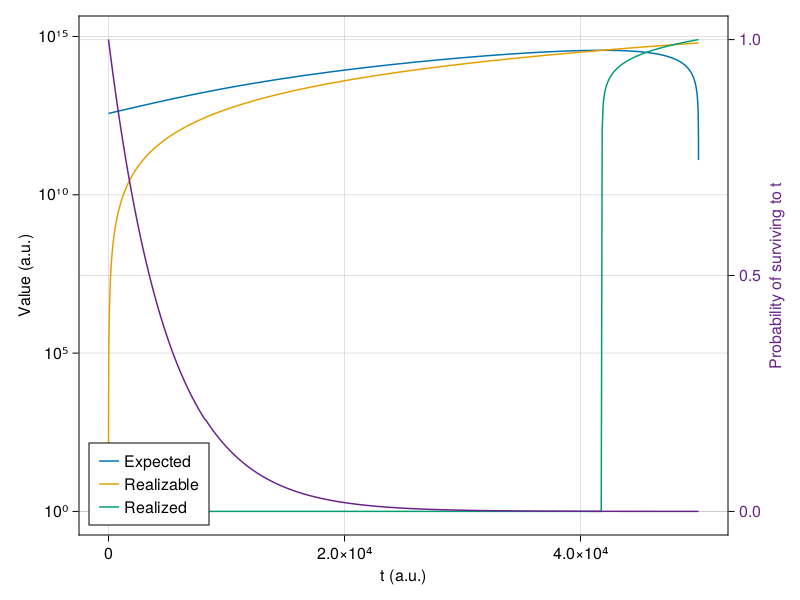
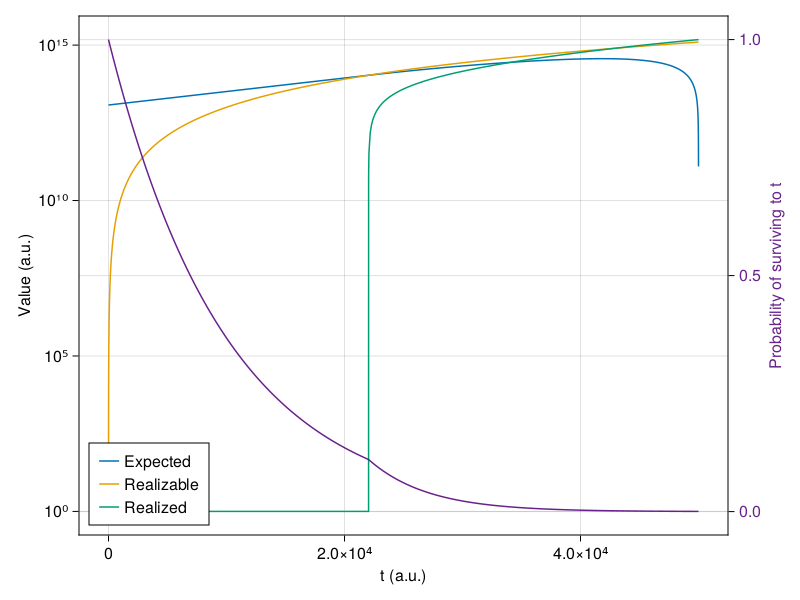
Fix repugnant bug

diff --git a/content/repugnant.md b/content/repugnant.md
@@ -47,7 +47,7 @@ Here's an example (code at the bottom):
 
 {{ resize_image(path="repugnant/ruin.png", width=1000, height=450, op="fit_width", alt="A plot of expected, realizable, and realized value over time in the scenario described above.") }}
 
-The initial expected value is in fact astronomical, but we've maximized it at the cost of back-loading the actual realization of value. By the time it makes sense to enter the "realization" stage, we're almost certainly already extinct.
+The initial expected value is in fact astronomical, but we've maximized it at the cost of back-loading the actual realization of value. By the time it makes sense to enter the "realization" stage, we're very likely already extinct.{% aside() %} The original version of this plot and code had a bug that made it wait too long, making my point look stronger than it was. {% end %}
 
 ```julia
 using CairoMakie
@@ -70,7 +70,7 @@ end
 function make_plot()
     s = 0.1 # Expansion speed
     r_0 = 2e-4 # Baseline risk
-    dr = 1e-6 # Change in risk when "securing"
+    dr = 1e-4 # Change in risk when "securing"
 
     sol = bellman_solve(s, r_0, dr)
 
@@ -90,24 +90,26 @@ function make_plot()
     hidexdecorations!(ax2)
 
     t_forward = maximum(sol.t) .- sol.t
-
-    realizing = (0.1*(t_forward)).^3 .> (r_0 - dr) * sol.u
+    realizing = ((s*t_forward).^3 .> dr * sol.u)
     t_r =t_forward[findlast(realizing)]
+    securing = (!).(realizing)
 
-    dr_p = dr * (!).(realizing)
+    p_alive = exp.(-(r_0 .- dr) .* t_forward) .* securing .+ 
+        exp(-(r_0 - dr) * t_r) *
+            exp.(-r_0 * (t_forward .- t_r)) .* realizing
 
-    realized = max.(0, 1/4 * s^3 * ((sol.t).^4 .- t_r^4))
+    realized = max.(0, 1/4 * s^3 * ((t_forward).^4 .- t_r^4))
 
     lines!(ax1, maximum(sol.t) .- sol.t, sol.u,
         label = "Expected")
-    lines!(ax1, sol.t, 1 .+ (0.1*sol.t).^3 / 2e-4
-         label = "Realizable")
-    lines!(ax1, sol.t, 1 .+ realized,
+    lines!(ax1, sol.t, 1 .+ (s*sol.t).^3 / dr,
+        label = "Realizable")
+    lines!(ax1, t_forward, 1 .+ realized,
         label = "Realized")
-    lines!(ax2, sol.t, exp.(-((r_0 .- dr_p) .* sol.t)),
+    lines!(ax2, t_forward, p_alive,
         color = :darkorchid4)
     axislegend(ax1, position = :lb)
-    save("ruin.png", f)
+    save("p.png", f)
 end
 ```
 

diff --git a/content/crimes.md b/content/crimes.md
@@ -109,7 +109,7 @@ To do this, we had best understand where the approximation comes from.{% note() 
 \left\lvert\frac{\alpha_\text{out}}{\alpha_\text{in}}\right\rvert^2 &\approx \frac{r^2 + a^2 - 2ra\cos φ}{1 + (ra)^2 - 2ra\cos φ}
 \end{align}
 {% end %}
-We've already made a couple assumptions: that {% katex() %} k^2 = 1 - r^2 {% end %} (there's no loss in the coupler), and that {% katex() %} (a-1)(1-r^2) \ll a .{% end %} We might use either Eqn. 1 or 2 to generate synthetic data.
+We've already made a couple assumptions: that {% katex() %} k^2 = 1 - r^2 {% end %} (there's no loss in the coupler), and that {% katex() %} (1-a)(1-r^2) \ll a .{% end %} We might use either Eqn. 1 or 2 to generate synthetic data.
 
 ###### Technical note: How do you get to the Lorentzian?
 
